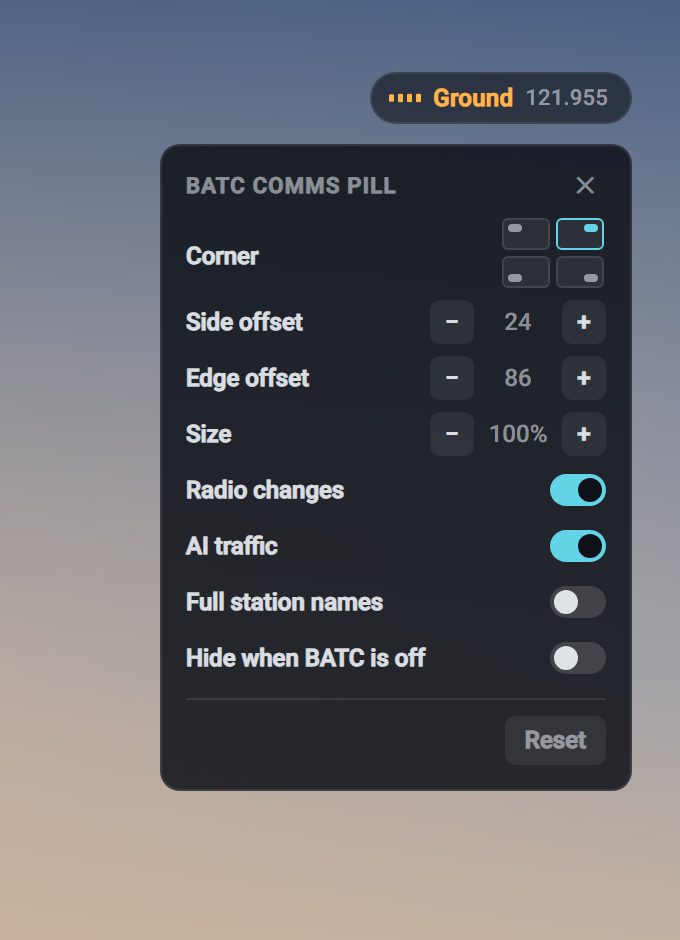
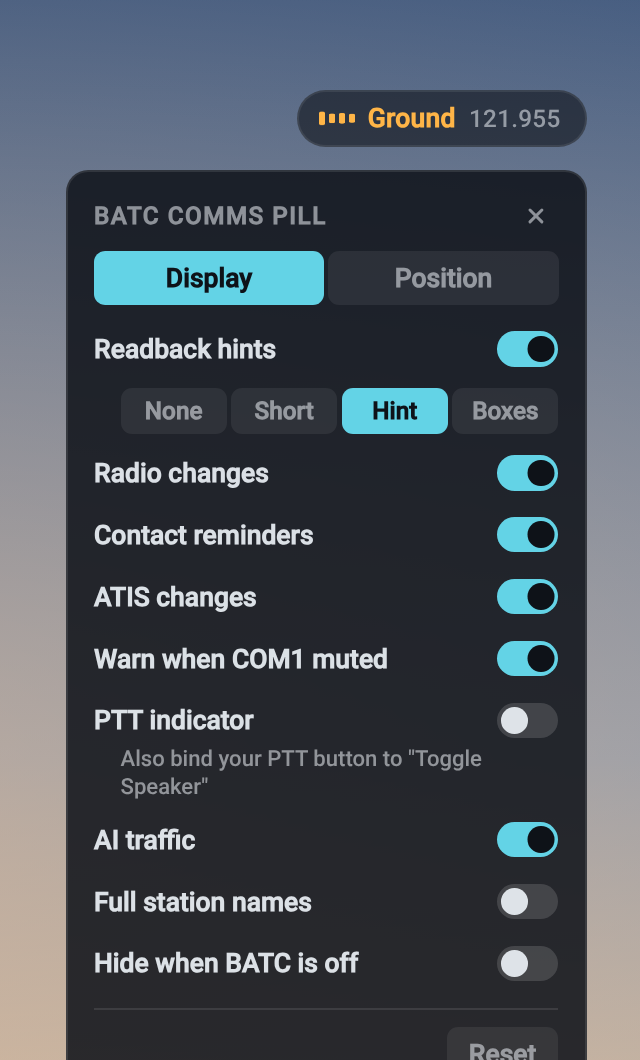
Prepare 1.1.0: docs, changelog, flightsim.to text, rendered images, pattern checks in CI
Claude-Session: https://claude.ai/code/session_01Lk4uSD1H6Vg8SX71CWaquM

diff --git a/tools/check_pill.js b/tools/check_pill.js
@@ -1,0 +1,67 @@
+// Checks pill.js's text patterns: hints and contact parsing on real BeyondATC lines, and speed on hostile
+// input (a backtracking pattern once could hang the sim's UI). Run in CI: node tools/check_pill.js
+"use strict";
+const fs = require("fs");
+const path = require("path");
+
+const src = fs.readFileSync(path.join(__dirname, "..", "src", "html_ui", "paul-batc-pill", "pill.js"), "utf8");
+function extract(from, to, name) {
+  const a = src.indexOf(from), b = src.indexOf(to, a);
+  if (a < 0 || b < 0) throw new Error("check_pill: can't find " + name + " in pill.js");
+  return new Function(src.slice(a, b) + "; return " + name + ";")();
+}
+const readbackHint = extract("  var RWY", "  function clip", "readbackHint");
+const contactIn = extract("  // A name is words", "  function onContact", "contactIn");
+
+let failed = 0;
+function expect(label, got, want) {
+  const ok = JSON.stringify(got) === JSON.stringify(want);
+  if (!ok) failed++;
+  console.log((ok ? "ok   " : "FAIL ") + label + (ok ? "" : "\n     got  " + JSON.stringify(got) + "\n     want " + JSON.stringify(want)));
+}
+
+// hints, on ATC lines from live captures (2026-10-22)
+const HINTS = [
+  ["Airfrans 1234, Montpellier Ground, cleared to Marseille Provence via KELA8L departure, runway 12L, climb to FL060, squawk 1000.", "IFR clearance · Climb FL060"],
+  ["Airfrans 1234, taxi via T1, hold short of runway 12L.", "Taxi via T1 · Hold short 12L"],
+  ["Airfrans 1234, via T6 cross runway 12L, taxi to holding point T6, runway 12L, via T.", "Taxi 12L · Cross 12L"],
+  ["Airfrans 1234, Montpellier Ground, pushback approved. Face south.", "Pushback · Face south"],
+  ["Airfrans 1234, Montpellier Tower, wind 100 degrees, 5 knots, runway 12L, cleared for takeoff.", "Takeoff 12L"],
+  ["Airfrans 1234, contact Montpellier Tower 118.775.", "Contact 118.775"],
+  ["Wind 310 degrees, 8 knots.", ""],
+  ["Airfrans 1234, readback correct. Call me back when ready for pushback or engine start.", ""],
+  ["Airfrans 1234, Montpellier Ground?", ""],
+];
+HINTS.forEach(([t, want]) => expect("hint    " + t.slice(0, 60), readbackHint(t), want));
+
+const CONTACTS = [
+  ["Airfrans 1234, contact Montpellier Tower 118.775, good day.", { name: "Montpellier Tower", freq: "118.775" }],
+  ["Airfrans 1234, contact Tower when at runway hold point.", { name: "Tower", freq: "" }],
+  ["contact Marseille Approach on 120.100", { name: "Marseille Approach", freq: "120.100" }],
+  ["contact Montpellier Mediterranee UNICOM 122.800", { name: "Montpellier Mediterranee UNICOM", freq: "122.800" }],
+  ["CONTACT MONTPELLIER TOWER WHEN READY", null],
+];
+CONTACTS.forEach(([t, want]) => expect("contact " + t.slice(0, 60), contactIn(t), want));
+
+// speed: each must finish well under a frame budget even on long, unlucky input
+const HOSTILE = [
+  "contact " + "ABCDEFGHIJKLMNOPQRSTUVWXYZ".repeat(40) + " x",
+  "contact " + "AB ".repeat(3000) + "x",
+  "Airfrans 1234, contact " + "Montpellier Tower ".repeat(500) + "when ready.",
+  "taxi " + "via T1 ".repeat(2000),
+  "cleared to " + "A ".repeat(3000),
+  "CONTACT MONTPELLIER TOWER WHEN AT RUNWAY HOLD POINT ".repeat(100),
+];
+HOSTILE.forEach((t) => {
+  const start = Date.now();
+  readbackHint(t);
+  contactIn(t);
+  const ms = Date.now() - start;
+  if (ms > 200) failed++;
+  console.log((ms > 200 ? "FAIL " : "ok   ") + "speed   " + ms + " ms  " + t.slice(0, 50));
+});
+
+if (failed) {
+  console.log(failed + " check(s) failed");
+  process.exit(1);
+}

diff --git a/docs/render/pills.js b/docs/render/pills.js
@@ -6,16 +6,31 @@ var BP = (function () {
   var RADIO = '<svg class="bp-ico bp-radio" viewBox="0 0 16 16" fill="none" stroke="currentColor" stroke-width="1.6" ' +
     'stroke-linecap="round"><circle cx="8" cy="8" r="1.6" fill="currentColor" stroke="none"/>' +
     '<path d="M5.2 5.2a4 4 0 0 0 0 5.6M10.8 5.2a4 4 0 0 1 0 5.6M3.1 3.1a7 7 0 0 0 0 9.8M12.9 3.1a7 7 0 0 1 0 9.8"/></svg>';
+  var MIC = '<svg class="bp-ico bp-mic" viewBox="0 0 16 16" fill="none" stroke="currentColor" stroke-width="1.6" ' +
+    'stroke-linecap="round"><rect x="5.5" y="1.5" width="5" height="8.5" rx="2.5" fill="currentColor" stroke="none"/>' +
+    '<path d="M3 8a5 5 0 0 0 10 0M8 13v2"/></svg>';
+  var MUTE = '<svg class="bp-ico" viewBox="0 0 16 16" fill="none" stroke="currentColor" stroke-width="1.6" ' +
+    'stroke-linecap="round" stroke-linejoin="round"><path d="M3 6h2l3-2.5v9L5 10H3z"/><path d="M11 6l3.5 4M14.5 6L11 10"/></svg>';
   var FREQ = '<span class="bp-freq">121.955</span>';
+  var SEP = '<span class="bp-sep">·</span>';
   var STATES = [
     ["dot", "is-dot", LAMP, "Idle", "Connected, nothing on the radio"],
-    ["queued", "s-proc", LAMP + "<span>Queued</span><span class=\"bp-sep\">·</span><span>Wind Check</span>", "Queued", "Toolbar request waiting"],
     ["processing", "s-proc", DOTS + "<span>Processing</span>", "Processing", "Speech or request being processed"],
     ["awaiting", "s-proc is-pulse", LAMP + "<span>Awaiting ATC</span>", "Awaiting ATC", "Request sent"],
     ["atc", "s-atc", BARS + '<span class="bp-who">Ground</span>' + FREQ, "ATC talking", "Controller speaking"],
-    ["you", "s-you", BARS + '<span class="bp-who">Transmitting</span>', "Transmitting", "Your readback or request"],
+    ["you", "s-you", BARS + '<span class="bp-who">Transmitting</span>', "Transmitting", "Your readback or request plays"],
+    ["ptt", "s-you", MIC + '<span class="bp-who">Transmitting</span>', "PTT held", "Optional: your PTT button"],
+    ["readback", "s-atc is-pulse", LAMP + '<span class="bp-who">Awaiting readback</span>' + SEP + "<span>Taxi 12L</span>",
+      "Awaiting readback", "ATC waits for your reply"],
+    ["insist", "s-insist is-pulse", LAMP + '<span class="bp-who">Awaiting readback ×2</span>', "ATC calls again", "Still no reply"],
+    ["missed", "s-insist", LAMP + '<span class="bp-who">No readback</span>' + SEP + "<span>Taxi 12L</span>",
+      "No readback", "BeyondATC stopped waiting"],
     ["tune", "s-tune", RADIO + '<span class="bp-who">Tower</span><span class="bp-freq">118.700</span>', "Radio change", "New station on COM1 or COM2"],
-    ["linger", "", LAMP + '<span>Ground</span>' + FREQ, "Exchange ended", "Station for 3 s, then the dot"],
+    ["contact", "s-tune", RADIO + '<span class="bp-who">Contact</span><span>Approach</span><span class="bp-freq">120.100</span>',
+      "Contact", "Auto Tune off: tune this station"],
+    ["atis", "s-atis", LAMP + '<span class="bp-who">ATIS</span>' + SEP + "<span>Z</span>", "ATIS change", "New ATIS letter"],
+    ["muted", "s-insist is-muted", BARS + '<span class="bp-who">Ground</span>' + FREQ + MUTE, "ATC calls, COM1 muted", "You won't hear it"],
+    ["linger", "", LAMP + "<span>Ground</span>" + FREQ, "Exchange ended", "Station for 3 s, then the dot"],
     ["offline", "is-ghost", LAMP + "<span>BATC offline</span>", "Offline", "BeyondATC not running"],
   ];
   function pill(key, unit) {

diff --git a/docs/render/states.html b/docs/render/states.html
@@ -23,7 +23,7 @@
     // shift the backdrop per tile so the sheet doesn't repeat one patch nine times
     t.style.backgroundPosition = (i % 3) * 50 + "% " + Math.floor(i / 3) * 40 + "%";
     t.style.backgroundSize = "300% 260%";
-    t.innerHTML = '<div class="slot">' + BP.pill(s[0], 2) + '</div><div class="cap"><b>' + s[3] + "</b><span>" + s[4] + "</span></div>";
+    t.innerHTML = '<div class="slot">' + BP.pill(s[0], 1.8) + '</div><div class="cap"><b>' + s[3] + "</b><span>" + s[4] + "</span></div>";
     grid.appendChild(t);
   });
 </script>

diff --git a/docs/render/splash.html b/docs/render/splash.html
@@ -43,5 +43,5 @@
     sky.style.backgroundImage = "url('" + bg + "')";
   }
   document.getElementById("stack").innerHTML =
-    ["queued", "processing", "awaiting", "atc", "you", "tune", "dot"].map(function (k) { return BP.pill(k, 3.4); }).join("");
+    ["processing", "atc", "readback", "you", "tune", "dot"].map(function (k) { return BP.pill(k, 3.4); }).join("");
 </script>

diff --git a/docs/render_images.py b/docs/render_images.py
@@ -1,4 +1,5 @@
-"""Render the README and flightsim.to images from docs/render/*.html with headless Edge. Needs Pillow.
+"""Render the README and flightsim.to images from docs/render/*.html with headless Edge (or Chrome/Chromium).
+Needs Pillow.
 
     python docs/render_images.py
 
@@ -26,35 +27,40 @@ def edge():
     for p in EDGE:
         if p.exists():
             return str(p)
-    found = shutil.which("msedge")
-    if not found:
-        sys.exit("render: Microsoft Edge not found")
-    return found
+    for name in ("msedge", "chrome", "google-chrome", "chromium", "chromium-browser"):
+        found = shutil.which(name)
+        if found:
+            return found
+    sys.exit("render: no Edge, Chrome or Chromium found")
 
 
 def shoot(page, size, scale, query=""):
-    """Screenshot page at size (CSS px) and device scale; returns a PIL image."""
+    """Screenshot page at size (CSS px) and device scale; returns a PIL image.
+
+    The window is made taller than needed, then cropped: headless Chromium keeps part of the window
+    height for itself, so a window of exactly `size` cuts the bottom off."""
     with tempfile.TemporaryDirectory() as tmp:
         png = Path(tmp) / "shot.png"
         url = (RENDER / page).as_uri() + query
         subprocess.run([
             edge(), "--headless=new", "--disable-gpu", "--hide-scrollbars", "--allow-file-access-from-files",
+            *(["--no-sandbox"] if sys.platform != "win32" else []),  # containers run as root
             f"--user-data-dir={Path(tmp) / 'profile'}",  # fresh profile: no saved pill settings
-            f"--window-size={size[0]},{size[1]}", f"--force-device-scale-factor={scale}",
+            f"--window-size={size[0]},{size[1] + 200}", f"--force-device-scale-factor={scale}",
             "--virtual-time-budget=4000", f"--screenshot={png}", url,
         ], check=True, capture_output=True)
-        return Image.open(png).copy()
+        return Image.open(png).crop((0, 0, size[0] * scale, size[1] * scale))
 
 
 def main():
     OUT.mkdir(parents=True, exist_ok=True)
 
-    img = shoot("states.html", (1200, 456), 2)
+    img = shoot("states.html", (1200, 758), 2)  # 5 rows of 150 px tiles
     img.save(OUT / "states.png", optimize=True)
     print(f"render: states.png {img.size}")
 
     # pill + open card in the top-right corner of a 1080p screen
-    img = shoot("settings.html", (1920, 1080), 2).crop((1580 * 2, 50 * 2, 1920 * 2, 520 * 2))
+    img = shoot("settings.html", (1920, 1080), 2).crop((1600 * 2, 50 * 2, 1920 * 2, 580 * 2))
     img.save(OUT / "settings.png", optimize=True)
     print(f"render: settings.png {img.size}")
 

diff --git a/README.md b/README.md
@@ -65,7 +65,8 @@ BeyondATC reads your PTT button itself and doesn't tell other add-ons when it's 
 
 - The package overrides one stock UI component, `MasterPage_InGame` (the in-flight root of the sim's UI), to load its script. Another mod that overrides the same component will conflict with it; //42 Flow and the BeyondATC toolbar don't.
 - After a sim update that changes that component, use an updated release.
-- PTT state isn't shown: BeyondATC reads your PTT button directly, and nothing in the sim exposes it.
+- BeyondATC doesn't share your PTT state; the optional PTT indicator reads a second sim binding of the same button instead (see above).
+- CPDLC messages are left to the sim's own datalink pages: the pill stays silent for them.
 
 ## Development
 
@@ -98,27 +99,33 @@ python tools/sniff_batc.py --quiet-snapshot
 
 Logs every BeyondATC socket message with timestamps to `logs/`. Use it when BeyondATC changes its protocol.
 
-`tools/harness.html` previews the pill in a desktop browser against the live socket, with replay buttons for two captured exchanges: run `python -m http.server 8765` in the repo root and open `http://localhost:8765/tools/harness.html`.
+`tools/harness.html` previews the pill in a desktop browser against the live socket, with replay buttons for captured exchanges (wind check, voice request, IFR clearance and readback, runway question) and a "Hold PTT" button: run `python -m http.server 8765` in the repo root and open `http://localhost:8765/tools/harness.html`.
+
+```bash
+python tools/batc_timeline.py
+```
+
+Prints the latest sniff log as a timeline, with the toolbar's reply menu (`Actions`) and clearance boxes (`InfoBoxes`) as +/- changes.
 
 ```bash
 python docs/render_images.py
 ```
 
-Renders the images in `docs/images/` with headless Edge (needs Pillow).
+Renders the images in `docs/images/` with headless Edge, or Chrome/Chromium when Edge isn't installed (needs Pillow).
 
 ### Release
 
 ```bash
-python tools/build.py release 0.2.0
+python tools/build.py release 1.1.0
 ```
 
-Builds and zips the package as `dist/paul-batc-pill-0.2.0.zip`. Bump `version` in `config.json`, commit, then publish:
+Builds and zips the package as `dist/paul-batc-pill-1.1.0.zip`. Set `version` in `config.json` and the date in `CHANGELOG.md`, commit, then publish with that version's changelog section as the notes:
 
 ```bash
-gh release create v0.2.0 dist/paul-batc-pill-0.2.0.zip --title v0.2.0 --notes "- what changed"
+gh release create v1.1.0 dist/paul-batc-pill-1.1.0.zip --title v1.1.0 --notes-file notes.md
 ```
 
-CI (`.github/workflows/check.yml`) checks the JS, Python and JSON on every push. It can't build the package, which needs a sim install.
+CI (`.github/workflows/check.yml`) checks the JS, Python and JSON on every push, and runs `tools/check_pill.js` (the pill's text patterns on real BeyondATC lines, and their speed on hostile input). It can't build the package, which needs a sim install.
 
 ### After each sim update
 
@@ -126,7 +133,9 @@ CI (`.github/workflows/check.yml`) checks the JS, Python and JSON on every push.
 
 ## How it works
 
-- The BeyondATC desktop app serves its in-sim toolbar over `ws://127.0.0.1:41716`, in lines like `Type: payload`. `CommsState: {"mode","text"}` carries the state (`ready`, `queued`, `processing`, `request`, `awaiting`, `speaking`). The `ATC:` / `Player:` / `Traffic:` line before `speaking` says whose voice it is. `Facility:` (COM1) and `Com2:` changes trigger the radio-change pill. The pill only reads; it never sends.
+- The BeyondATC desktop app serves its in-sim toolbar over `ws://127.0.0.1:41716`, in lines like `Type: payload`. `CommsState: {"mode","text"}` carries the state (`ready`, `queued`, `processing`, `request`, `awaiting`, `speaking`, `traffic`). The `ATC:` / `Player:` / `Traffic:` line before `speaking` says whose voice it is. `Facility:` (COM1) and `Com2:` changes trigger the radio-change pill. The pill only reads; it never sends.
+- Readback hints come from the toolbar's own reply menu (`Actions`): while ATC waits for you it offers "Say Again" next to the replies ("Readback Taxi Instruction", "Acknowledge Takeoff Clearance", "Runway 12L"). The clearance boxes (`InfoBoxes`) give Short and Boxes; the hint text is read from ATC's words.
+- The PTT indicator asks the sim to report the `TOGGLE_SPEAKER` key event to the pill's view (the way the sim's own instruments listen to key events). A held button repeats it; the pill shows "Transmitting" while the repeats keep coming.
 - `injections.json`: the build appends a hidden `<img onerror>` to the stock `MasterPage_InGame` cooked component, which loads `pill.js` once (the same hook //42 Flow uses). `MasterPage_InGame` only mounts in flight; the pill also hides when BeyondATC reports `LoadState.stage` `menu`.
 - Clicks in flight: the sim only routes a click to the element directly under the cursor, if it has `data-input-group` and `pointer-events` isn't `none`. The pill's children ignore pointer events; every element of the settings card carries the attribute while it's open.
 - `src/html_ui/paul-batc-pill/pill.js`: socket client, state machine, transitions, settings card, defaults in `CONFIG`. `pill.css`: the look; `--u` is one screen pixel at 1080p, times the size setting.

diff --git a/docs/flightsim-to.md b/docs/flightsim-to.md
@@ -12,7 +12,7 @@ BeyondATC, BATC, ATC, radio, comms, status, indicator, overlay, HUD, UI, toolbar
 
 ## Short description
 
-A small, quiet pill in a corner of the screen that shows what BeyondATC is doing on the radio: requests, ATC talking, your readbacks and radio changes.
+A small, quiet pill in a corner of the screen that shows what BeyondATC is doing on the radio: requests, ATC talking, the readback ATC is waiting for, and radio changes.
 
 ## Description
 
@@ -21,14 +21,15 @@ A small, quiet pill in a corner of the screen that shows what BeyondATC is doing
 **What it shows**
 - Queued, Processing and Awaiting ATC while your request is on its way
 - ATC talking, with the station and frequency (amber)
-- Transmitting, while your readback or request plays (green)
-- Radio changes: the new station when COM1 or COM2 changes (cyan)
-- A muted COM1, AI traffic talking, and BeyondATC offline
+- Awaiting readback / Awaiting response: what ATC is waiting for from you, as a short hint ("Taxi via T1 · Hold short 12L"), the clearance values or the toolbar's clearance boxes. Red-orange when ATC calls you again, and "No readback" if BeyondATC gives up waiting
+- Transmitting, while your readback or request plays (green), and optionally while you hold PTT
+- Radio changes: the new station when COM1 or COM2 changes (cyan), and with Auto Tune off, whom to contact
+- A new ATIS letter, ATC calling while COM1 is muted, AI traffic talking, and BeyondATC offline
 
 When nothing is happening it shrinks to a small dot. Changes between states are animated.
 
 **Settings**
-Click the pill in flight to open its settings: corner, position, size, and which events to show.
+Click the pill in flight to open its settings: which events to show and how much detail (Display tab), corner, position and size (Position tab).
 
 **Requirements**
 - Microsoft Flight Simulator 2024
@@ -39,13 +40,27 @@ Extract the `paul-batc-pill` folder into your Community folder.
 
 **Notes**
 - The pill reads BeyondATC's local connection and never sends anything to it.
-- PTT state isn't shown: BeyondATC reads your PTT button directly, and nothing in the sim exposes it.
+- Optional PTT indicator: bind your PTT button a second time to the sim's Toggle Speaker (Controls > Communications), keeping BeyondATC's binding, then turn it on in the settings.
+- CPDLC is left to the sim's own datalink pages.
 - The mod overrides one stock UI component (`MasterPage_InGame`) to load. Another mod that overrides the same component will conflict with it. After a sim update that changes it, install the updated version.
 - Not affiliated with BeyondATC or Microsoft.
 
 Source and issues: https://github.com/paul-charp/FS24-BATC-Pill
 
 ## Changelog
+
+1.1.0
+
+- Added: readback hints. While ATC waits for your readback, acknowledgement or answer, the pill shows "Awaiting readback" or "Awaiting response" with a short hint, the toolbar's clearance boxes or their values.
+- Added: the pill turns red-orange when ATC calls you again before you reply, and shows "No readback" when BeyondATC stops waiting.
+- Added: with Auto Tune off, a "Contact" reminder until COM1 is on the station ATC handed you to.
+- Added: a new ATIS letter shows for 6 s; an ATIS playing on COM1 shows "ATIS".
+- Added: ATC calling you while COM1 is muted turns the pill red-orange.
+- Added: optional PTT indicator.
+- Changed: "You" is now "Transmitting"; the settings card has Display and Position tabs.
+- Fixed: the idle dot stayed visible in the sim's menus after a flight.
+- Fixed: BeyondATC errors, ATC broadcasts and ATIS showed raw or wrong text.
+- Fixed: radio changes showed while a flight was loading.
 
 1.0.1
 

diff --git a/CHANGELOG.md b/CHANGELOG.md
@@ -1,19 +1,20 @@
 # Changelog
 
-## Unreleased
+## 1.1.0 (unreleased)
 
-- Added: readback hints: while ATC waits for your readback, acknowledgement or answer, the pill says so ("Readback hints" setting), with a short hint, the toolbar's clearance boxes, or no detail (None / Short / Hint / Boxes). The pill turns red-orange when ATC calls you again before you reply, and shows "No readback" when BeyondATC stops waiting without one.
-- Fixed: ATC broadcasts to all stations showed "ATC Generating" / "ATC Transmitting".
-- Fixed: an ATIS on COM1 showed as "Traffic" or "Service"; it now shows "ATIS".
-- Added: with Auto Tune off, a "Contact" reminder until COM1 is on the station ATC handed you to ("Contact reminders" setting).
-- Added: a new ATIS letter shows for 6 s ("ATIS changes" setting).
-- Added: ATC calling you while COM1 is muted turns the pill red-orange ("Muted ATC calls" setting).
-- Added: optional PTT indicator, from your PTT button also bound to the sim's Toggle Speaker ("PTT" setting).
+- Added: readback hints. While ATC waits for your readback, acknowledgement or answer, the pill shows "Awaiting readback" or "Awaiting response" with a short hint, the toolbar's clearance boxes or their values (None / Short / Hint / Boxes).
+- Added: the pill turns red-orange when ATC calls you again before you reply ("×2", "×3"), and shows "No readback" when BeyondATC stops waiting.
+- Added: with Auto Tune off, a "Contact" reminder until COM1 is on the station ATC handed you to.
+- Added: a new ATIS letter shows for 6 s; an ATIS playing on COM1 shows "ATIS".
+- Added: ATC calling you while COM1 is muted turns the pill red-orange.
+- Added: optional PTT indicator, from your PTT button also bound to the sim's Toggle Speaker.
 - Changed: "You" is now "Transmitting" while your readback or request plays.
 - Changed: the settings card has two tabs, Display and Position.
-- Changed: with the settings card open, the sample pill shows the effect of the last setting changed.
-- Fixed: BeyondATC errors showed as raw JSON.
+- Changed: with the settings card open, the sample pill shows the effect of the last setting changed for 4 s.
 - Fixed: the idle dot stayed visible in the sim's menus after a flight.
+- Fixed: BeyondATC errors showed as raw JSON.
+- Fixed: ATC broadcasts to all stations showed "ATC Generating" / "ATC Transmitting".
+- Fixed: an ATIS on COM1 showed as "Traffic" or "Service".
 - Fixed: radio changes showed while a flight was loading.
 - Fixed: `sniff_batc.py` disconnected after BeyondATC's first ping.
 

diff --git a/AGENTS.md b/AGENTS.md
@@ -18,12 +18,15 @@ screen corner during flight, with a click-to-open settings card. Windows only. U
   `.local/config.json`, which overrides it.
 - `tools/inspect_ui.py`: Coherent inspector client (Devmode, `localhost:19999`); `--list`, `--page N`,
   `--push` hot-reloads the pill into mainUi (page 2). If it times out, a dead sim's child process may hold
-  the port (seen: WinWing's SimAppPro2.exe): `netstat -ano | findstr 19999` shows a second LISTENING PID. `tools/sniff_batc.py`: socket logger;
-  `tools/batc_timeline.py` prints a log as a timeline with `Actions`/`InfoBoxes` changes as diffs.
-  `tools/harness.html`: desktop preview with replays.
-- `docs/render/*.html` + `docs/render_images.py`: README/flightsim.to images via headless Edge.
+  the port (seen: WinWing's SimAppPro2.exe): `netstat -ano | findstr 19999` shows a second LISTENING PID.
+  `tools/sniff_batc.py`: socket logger; `tools/batc_timeline.py` prints a log as a timeline with
+  `Actions`/`InfoBoxes` changes as diffs. `tools/harness.html`: desktop preview with replays, a fake
+  `engine` and a "Hold PTT" button.
+- `docs/render/*.html` + `docs/render_images.py`: README/flightsim.to images via headless Edge (or
+  Chrome/Chromium); `docs/render/pills.js` mirrors `view()`'s markup for the state sheet.
   `docs/flightsim-to.md`: flightsim.to page text. `CHANGELOG.md`: release history.
-- `.github/workflows/check.yml`: syntax checks only (CI can't build without a sim install).
+- `.github/workflows/check.yml`: syntax checks, plus `tools/check_pill.js` (readback hints and contact parsing
+  on real lines; pattern speed on hostile input). CI can't build without a sim install.
 - `.local/` (git-ignored): local config, mockups, screenshots. Put new private files there.
 
 ## Sim facts (verified live)
@@ -48,7 +51,8 @@ screen corner during flight, with a click-to-open settings card. Windows only. U
 - No gamepads in mainUi (`navigator.getGamepads()` is `[]` even after presses). A package can't add new
   actions to the Controls menu (MSFS 2024 SDK: presets of existing actions only).
 - Rounded `overflow: hidden` boxes had jagged corners in the sim while the unclipped settings card was
-  smooth; the pill now clips square and draws its rounded background on `.bp-bg` (fix unverified live).
+  smooth; the pill now clips square and draws its rounded background on `.bp-bg`. Corners still look
+  jagged on light backgrounds (parked).
 
 ## BeyondATC protocol
 
